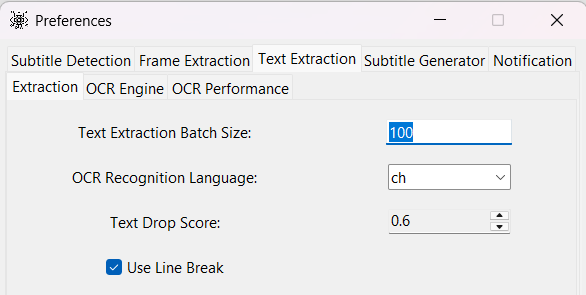
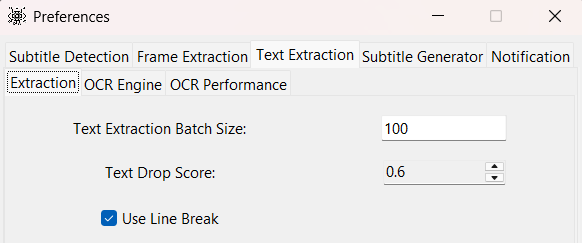
only OCRv5 is supported

diff --git a/gui.py b/gui.py
@@ -1128,24 +1128,7 @@ class PreferencesUI(tk.Toplevel):
             width=self.entry_size
         ).grid(column=1, row=0)
 
-        ttk.Label(text_extraction_frame, text="OCR Recognition Language:").grid(column=0, row=2)
-        self.ocr_rec_language = self.make_pref_var(utils.CONFIG.ocr_rec_language)
-        ttk.Combobox(
-            text_extraction_frame,
-            textvariable=self.ocr_rec_language,
-            values=['abq', 'ady', 'af', 'ang', 'ar', 'ava', 'az', 'ba', 'bal', 'be', 'bg', 'bgc', 'bh', 'bho', 'bs',
-                    'bua', 'ca', 'ch', 'che', 'chinese_cht', 'cs', 'cv', 'cy', 'da', 'dar', 'de', 'en', 'es', 'et',
-                    'eu', 'fa', 'fi', 'fr', 'french', 'ga', 'german', 'gl', 'gom', 'hi', 'hr', 'hu', 'id', 'inh', 'is',
-                    'it', 'japan', 'ka', 'kaa', 'kbd', 'kk', 'korean', 'ku', 'kv', 'ky', 'la', 'lb', 'lbe', 'lez', 'lt',
-                    'lv', 'mah', 'mai', 'mhr', 'mi', 'mk', 'mn', 'mo', 'mr', 'ms', 'mt', 'ne', 'new', 'nl', 'no', 'oc',
-                    'os', 'pi', 'pl', 'ps', 'pt', 'qu', 'rm', 'ro', 'rs_cyrillic', 'rs_latin', 'ru', 'sa', 'sah', 'sck',
-                    'sd', 'sk', 'sl', 'sq', 'sv', 'sw', 'ta', 'tab', 'te', 'tg', 'tl', 'tr', 'tt', 'tyv', 'udm', 'ug',
-                    'uk', 'ur', 'uz', 'vi', 'xal'],
-            state="readonly",
-            width=self.combobox_size
-        ).grid(column=1, row=2)
-
-        ttk.Label(text_extraction_frame, text="Text Drop Score:").grid(column=0, row=3, pady=self.wgt_y_padding)
+        ttk.Label(text_extraction_frame, text="Text Drop Score:").grid(column=0, row=2)
         self.text_drop_score = self.make_pref_var(utils.CONFIG.text_drop_score)
         ttk.Spinbox(
             text_extraction_frame,
@@ -1154,14 +1137,14 @@ class PreferencesUI(tk.Toplevel):
             textvariable=self.text_drop_score,
             state="readonly",
             width=self.spinbox_size
-        ).grid(column=1, row=3)
+        ).grid(column=1, row=2)
 
         self.line_break = self.make_pref_var(utils.CONFIG.line_break)
         ttk.Checkbutton(
             text_extraction_frame,
             text='Use Line Break',
             variable=self.line_break
-        ).grid(column=0, row=4)
+        ).grid(column=0, row=3, pady=self.wgt_y_padding)
 
     def _ocr_engine_tab(self, notebook_tab) -> None:
         models_frame = ttk.Frame(self.notebook_tab)
@@ -1170,12 +1153,19 @@ class PreferencesUI(tk.Toplevel):
         models_frame.grid_columnconfigure(1, weight=1)
         notebook_tab.add(models_frame, text="OCR Engine")
 
-        ttk.Label(models_frame, text="PaddleOCR Version:").grid(column=0, row=0, pady=self.wgt_y_padding)
-        self.paddleocr_version = self.make_pref_var(utils.CONFIG.paddleocr_version)
+        ttk.Label(models_frame, text="OCR Recognition Language:").grid(column=0, row=0, pady=self.wgt_y_padding)
+        self.ocr_rec_language = self.make_pref_var(utils.CONFIG.ocr_rec_language)
         ttk.Combobox(
             models_frame,
-            textvariable=self.paddleocr_version,
-            values=["PP-OCRv3", "PP-OCRv4", "PP-OCRv5"],
+            textvariable=self.ocr_rec_language,
+            values=['ab', 'ady', 'af', 'ang', 'ar', 'av', 'az', 'ba', 'bal', 'be', 'bg', 'bgc', 'bh', 'bho', 'bs',
+                    'bua', 'ca', 'ce', 'ch', 'chinese_cht', 'cs', 'cv', 'cy', 'da', 'dar', 'de', 'el', 'en', 'es', 'et',
+                    'eu', 'fa', 'fi', 'fr', 'ga', 'gl', 'gom', 'hi', 'hr', 'hu', 'id', 'inh', 'is', 'it', 'japan',
+                    'kaa', 'kbd', 'kk', 'korean', 'ku', 'ku', 'kv', 'ky', 'la', 'lb', 'lez', 'lki', 'lt', 'lv', 'mah',
+                    'mai', 'mhr', 'mi', 'mk', 'mn', 'mo', 'mr', 'ms', 'mt', 'ne', 'new', 'nl', 'no', 'oc', 'os', 'pi',
+                    'pl', 'ps', 'pt', 'qu', 'rm', 'ro', 'rs_latin', 'ru', 'sa', 'sah', 'sck', 'sd', 'sk', 'sl', 'sq',
+                    'sr', 'sv', 'sw', 'ta', 'tab', 'te', 'tg', 'th', 'tl', 'tr', 'tt', 'tyv', 'udm', 'ug', 'uk', 'ur',
+                    'uz', 'vi', 'xal'],
             state="readonly",
             width=self.combobox_size
         ).grid(column=1, row=0)

diff --git a/compiler.py b/compiler.py
@@ -35,17 +35,11 @@ def download_all_models() -> None:
     from custom_ocr import CustomPaddleOCR
 
     txt_line_ori_models = ["PP-LCNet_x0_25_textline_ori", "PP-LCNet_x1_0_textline_ori"]
-    det_models = ['PP-OCRv3_mobile_det', 'PP-OCRv3_server_det', 'PP-OCRv4_mobile_det', 'PP-OCRv4_server_det',
-                  'PP-OCRv5_mobile_det', 'PP-OCRv5_server_det']
-    rec_models = ['PP-OCRv3_mobile_rec', 'PP-OCRv4_mobile_rec', 'PP-OCRv4_server_rec', 'PP-OCRv5_mobile_rec',
-                  'PP-OCRv5_server_rec', 'arabic_PP-OCRv3_mobile_rec', 'arabic_PP-OCRv5_mobile_rec',
-                  'chinese_cht_PP-OCRv3_mobile_rec', 'cyrillic_PP-OCRv3_mobile_rec', 'cyrillic_PP-OCRv5_mobile_rec',
-                  'devanagari_PP-OCRv3_mobile_rec', 'devanagari_PP-OCRv5_mobile_rec', 'en_PP-OCRv3_mobile_rec',
-                  'en_PP-OCRv4_mobile_rec', 'en_PP-OCRv5_mobile_rec', 'eslav_PP-OCRv5_mobile_rec',
-                  'japan_PP-OCRv3_mobile_rec', 'ka_PP-OCRv3_mobile_rec', 'korean_PP-OCRv3_mobile_rec',
-                  'korean_PP-OCRv5_mobile_rec', 'latin_PP-OCRv3_mobile_rec', 'latin_PP-OCRv5_mobile_rec',
-                  'ta_PP-OCRv3_mobile_rec', 'ta_PP-OCRv5_mobile_rec', 'te_PP-OCRv3_mobile_rec',
-                  'te_PP-OCRv5_mobile_rec']
+    det_models = ['PP-OCRv5_mobile_det', 'PP-OCRv5_server_det']
+    rec_models = ['PP-OCRv5_mobile_rec', 'PP-OCRv5_server_rec', 'arabic_PP-OCRv5_mobile_rec',
+                  'cyrillic_PP-OCRv5_mobile_rec', 'devanagari_PP-OCRv5_mobile_rec', 'en_PP-OCRv5_mobile_rec',
+                  'eslav_PP-OCRv5_mobile_rec', 'korean_PP-OCRv5_mobile_rec', 'latin_PP-OCRv5_mobile_rec',
+                  'ta_PP-OCRv5_mobile_rec', 'te_PP-OCRv5_mobile_rec']
     utils.CONFIG.ocr_opts["use_gpu"] = False
     for model in txt_line_ori_models:
         print(f"\nChecking for {model} model...")

diff --git a/utilities/frames_to_text.py b/utilities/frames_to_text.py
@@ -15,7 +15,6 @@ logger = logging.getLogger(__name__)
 
 def setup_ocr() -> None:
     utils.CONFIG.ocr_opts["lang"] = utils.CONFIG.ocr_rec_language
-    utils.CONFIG.ocr_opts["ocr_version"] = utils.CONFIG.paddleocr_version
     utils.CONFIG.ocr_opts["use_mobile_model"] = utils.CONFIG.use_mobile_model
     utils.CONFIG.ocr_opts["use_textline_orientation"] = utils.CONFIG.use_text_ori
 
@@ -48,7 +47,7 @@ def extract_bboxes(files: Path) -> list:
     Returns the bounding boxes of detected texted in images.
     :param files: Directory with images for detection.
     """
-    model_name = f"{utils.CONFIG.paddleocr_version}_{'mobile' if utils.CONFIG.use_mobile_model else 'server'}_det"
+    model_name = f"PP-OCRv5_{'mobile' if utils.CONFIG.use_mobile_model else 'server'}_det"
     det_config = {"model_save_dir": utils.CONFIG.ocr_opts["model_save_dir"], "model_name": model_name,
                   "box_thresh": utils.CONFIG.bbox_drop_score, "use_gpu": utils.CONFIG.ocr_opts["use_gpu"]}
     ocr_engine = TextDetection(**det_config)

diff --git a/utilities/utils.py b/utilities/utils.py
@@ -42,7 +42,6 @@ class Config:
         },
         "Text Extraction": {
             "text_extraction_batch_size": (int, 100),
-            "ocr_rec_language": (str, "ch"),
             "text_drop_score": (float, 0.6),
             "line_break": (bool, True),
         },
@@ -66,7 +65,7 @@ class Config:
             "win_notify_loop_sound": (bool, True),
         },
         "OCR Engine": {
-            "paddleocr_version": (str, "PP-OCRv5"),
+            "ocr_rec_language": (str, "ch"),
             "use_mobile_model": (bool, True),
             "use_text_ori": (bool, False),
         },

diff --git a/docs/Supported_Languages.md b/docs/Supported_Languages.md
@@ -1,59 +1,59 @@
 ## Supported languages and Abbreviations
 
-| Language            | Abbreviation |   | Language        | Abbreviation |
-|---------------------|--------------|---|-----------------|--------------|
-| Chinese & English   | ch           |   | Hungarian       | hu           |
-| English             | en           |   | Serbian (latin) | rs_latin     |
-| French              | fr           |   | Indonesian      | id           |
-| German              | de           |   | Occitan         | oc           |
-| Japanese            | japan        |   | Icelandic       | is           |
-| Korean              | korean       |   | Lithuanian      | lt           |
-| Traditional Chinese | chinese_cht  |   | Maori           | mi           |
-| Afrikaans           | af           |   | Malay           | ms           |
-| Italian             | it           |   | Dutch           | nl           |
-| Spanish             | es           |   | Norwegian       | no           |
-| Bosnian             | bs           |   | Polish          | pl           |
-| Portuguese          | pt           |   | Slovak          | sk           |
-| Czech               | cs           |   | Slovenian       | sl           |
-| Welsh               | cy           |   | Albanian        | sq           |
-| Danish              | da           |   | Swedish         | sv           |
-| Estonian            | et           |   | Swahili         | sw           |
-| Irish               | ga           |   | Tagalog         | tl           |
-| Croatian            | hr           |   | Turkish         | tr           |
-| Uzbek               | uz           |   | Latin           | la           |
-| Russian             | ru           |   | Belarusian      | be           |
-| Ukrainian           | uk           |   | Thai            | th           |
-| Greek               | el           |   | Azerbaijani     | az           |
-| Kurdish             | ku           |   | Latvian         | lv           |
-| Maltese             | mt           |   | Pali            | pi           |
-| Romanian            | ro           |   | Vietnamese      | vi           |
-| Finnish             | fi           |   | Basque          | eu           |
-| Galician            | gl           |   | Luxembourgish   | lb           |
-| Romansh             | rm           |   | Catalan         | ca           |
-| Quechua             | qu           |   | Telugu          | te           |
-| Serbian (Cyrillic)  | sr           |   | Bulgarian       | bg           |
-| Mongolian           | mn           |   | Abkhaz          | ab           |
-| Adyghe              | ady          |   | Kabardian       | kbd          |
-| Avar                | av           |   | Dargwa          | dar          |
-| Ingush              | inh          |   | Chechen         | ce           |
-| Lak                 | lki          |   | Lezgian         | lez          |
-| Tabasaran           | tab          |   | Kazakh          | kk           |
-| Kyrgyz              | ky           |   | Tajik           | tg           |
-| Macedonian          | mk           |   | Tatar           | tt           |
-| Chuvash             | cv           |   | Bashkir         | ba           |
-| Mari                | mhr          |   | Moldovan        | mo           |
-| Udmurt              | udm          |   | Komi            | kv           |
-| Ossetian            | os           |   | Buriat          | bua          |
-| Kalmyk              | xal          |   | Tuvinian        | tyv          |
-| Sakha               | sah          |   | Karakalpak      | kaa          |
-| Arabic              | ar           |   | Persian         | fa           |
-| Uyghur              | ug           |   | Urdu            | ur           |
-| Pashto              | ps           |   | Kurdish         | ku           |
-| Sindhi              | sd           |   | Balochi         | bal          |
-| Hindi               | hi           |   | Marathi         | mr           |
-| Nepali              | ne           |   | Bihari          | bh           |
-| Maithili            | mai          |   | Old English     | ang          |
-| Bhojpuri            | bho          |   | Magahi          | mah          |
-| Sadri               | sck          |   | Newar           | new          |
-| Konkani             | gom          |   | Sanskrit        | sa           |
-| Haryanvi            | bgc          |   | Tamil           | ta           |
+| Language            | Abbreviation | | Language        | Abbreviation |
+|---------------------|--------------|-|-----------------|--------------|
+| Chinese             | ch           | | Hungarian       | hu           |
+| English             | en           | | Serbian (latin) | rs_latin     |
+| French              | fr           | | Indonesian      | id           |
+| German              | de           | | Occitan         | oc           |
+| Japanese            | japan        | | Icelandic       | is           |
+| Korean              | korean       | | Lithuanian      | lt           |
+| Traditional Chinese | chinese_cht  | | Maori           | mi           |
+| Afrikaans           | af           | | Malay           | ms           |
+| Italian             | it           | | Dutch           | nl           |
+| Spanish             | es           | | Norwegian       | no           |
+| Bosnian             | bs           | | Polish          | pl           |
+| Portuguese          | pt           | | Slovak          | sk           |
+| Czech               | cs           | | Slovenian       | sl           |
+| Welsh               | cy           | | Albanian        | sq           |
+| Danish              | da           | | Swedish         | sv           |
+| Estonian            | et           | | Swahili         | sw           |
+| Irish               | ga           | | Tagalog         | tl           |
+| Croatian            | hr           | | Turkish         | tr           |
+| Uzbek               | uz           | | Latin           | la           |
+| Russian             | ru           | | Belarusian      | be           |
+| Ukrainian           | uk           | | Thai            | th           | 
+| Greek               | el           | | Azerbaijani     | az           |
+| Kurdish             | ku           | | Latvian         | lv           |
+| Maltese             | mt           | | Pali            | pi           |
+| Romanian            | ro           | | Vietnamese      | vi           |
+| Finnish             | fi           | | Basque          | eu           | 
+| Galician            | gl           | | Luxembourgish   | lb           |
+| Romansh             | rm           | | Catalan         | ca           |
+| Quechua             | qu           | | Telugu          | te           |
+| Serbian (Cyrillic)  | sr           | | Bulgarian       | bg           |
+| Mongolian           | mn           | | Abkhaz          | ab           |
+| Adyghe              | ady          | | Kabardian       | kbd          |
+| Avar                | av           | | Dargwa          | dar          |
+| Ingush              | inh          | | Chechen         | ce           |
+| Lak                 | lki          | | Lezgian         | lez          |
+| Tabasaran           | tab          | | Kazakh          | kk           |
+| Kyrgyz              | ky           | | Tajik           | tg           |
+| Macedonian          | mk           | | Tatar           | tt           |
+| Chuvash             | cv           | | Bashkir         | ba           |
+| Mari                | mhr          | | Moldovan        | mo           |
+| Udmurt              | udm          | | Komi            | kv           |
+| Ossetian            | os           | | Buriat          | bua          |
+| Kalmyk              | xal          | | Tuvinian        | tyv          |
+| Sakha               | sah          | | Karakalpak      | kaa          |
+| Arabic              | ar           | | Persian         | fa           |
+| Uyghur              | ug           | | Urdu            | ur           |
+| Pashto              | ps           | | Kurdish         | ku           |
+| Sindhi              | sd           | | Balochi         | bal          |
+| Hindi               | hi           | | Marathi         | mr           |
+| Nepali              | ne           | | Bihari          | bh           |
+| Maithili            | mai          | | Old English     | ang          |
+| Bhojpuri            | bho          | | Magahi          | mah          |
+| Sadri               | sck          | | Newar           | new          |
+| Konkani             | gom          | | Sanskrit        | sa           |
+| Haryanvi            | bgc          | | Tamil           | ta           |

diff --git a/docs/Preferences.md b/docs/Preferences.md
@@ -48,8 +48,6 @@ All the options that are related to text extraction are grouped here.
 
 **Text Extraction Batch Size**: The number of frames to be extracted by each CPU or GPU core/process.
 
-**OCR Recognition Language**: The language of the subtitle in the video to be extracted.
-
 **Text Drop Score**: The minimum acceptable confidence score for every extracted text. A low score will result in more
 inaccurate text in the generated subtitle. A very high score will result in a more accurate text in the generated
 subtitle but lots of skipped text.
@@ -61,14 +59,14 @@ work properly if the OCR detects a lot of space on the same line of text.
 
 <img src="images/ocr%20engine.png" width="400">
 
-**PaddleOCR Version**: The Paddle ocr version that will be used for the text detection and recognition.
-
-**Use Mobile Model**: Determines whether the server or mobile version of the model is used. The server model is very
-slow but has higher accuracy while the mobile model is fast but has a lower accuracy.
+**OCR Recognition Language**: The language of the subtitle in the video to be extracted.
 
 **Use Text Line Orientation Model**: Enabling this option allows the use of a model to determine the orientation of a
 text and rotate it if needed before passing it to the recognition model. This should be used if any text in the video
 is not horizontal.
+
+**Use Mobile Model**: Determines whether the server or mobile version of the model is used. The server model is very
+slow but has higher accuracy while the mobile model is fast but has a lower accuracy.
 
 ### OCR Performance
 
